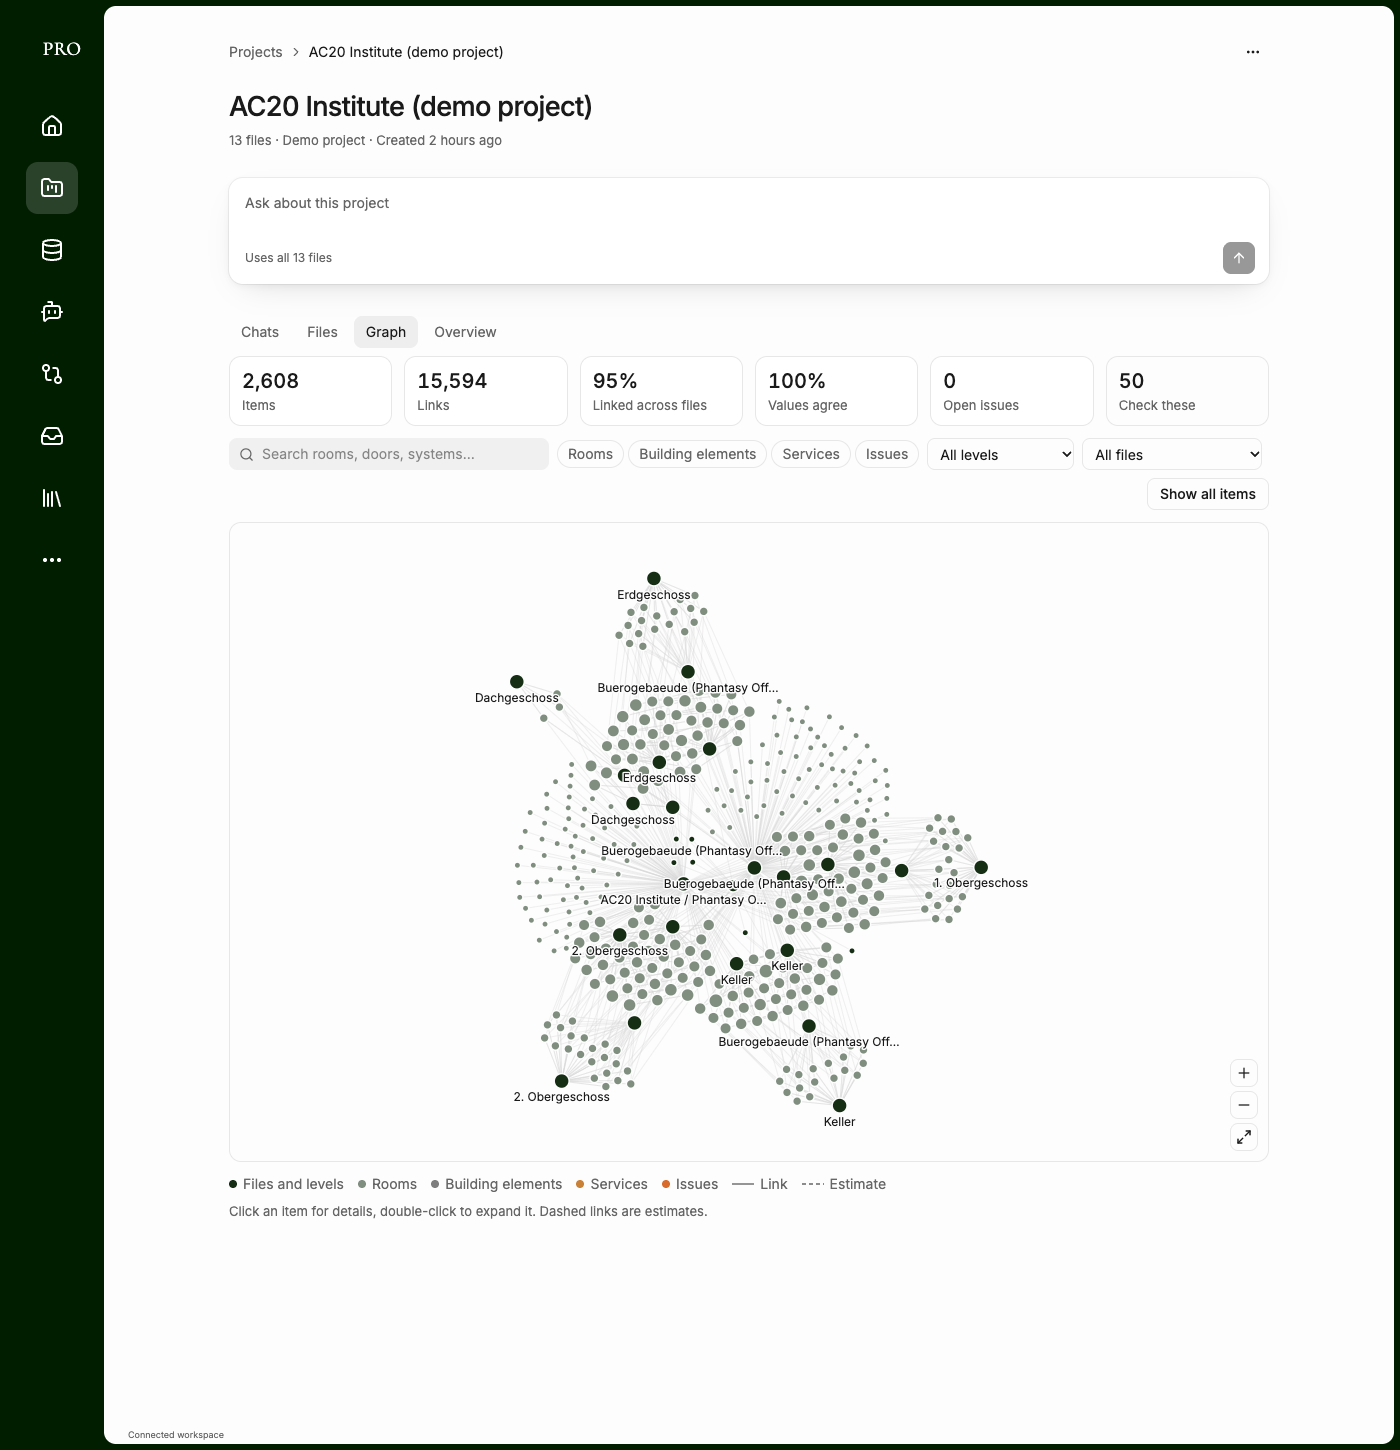
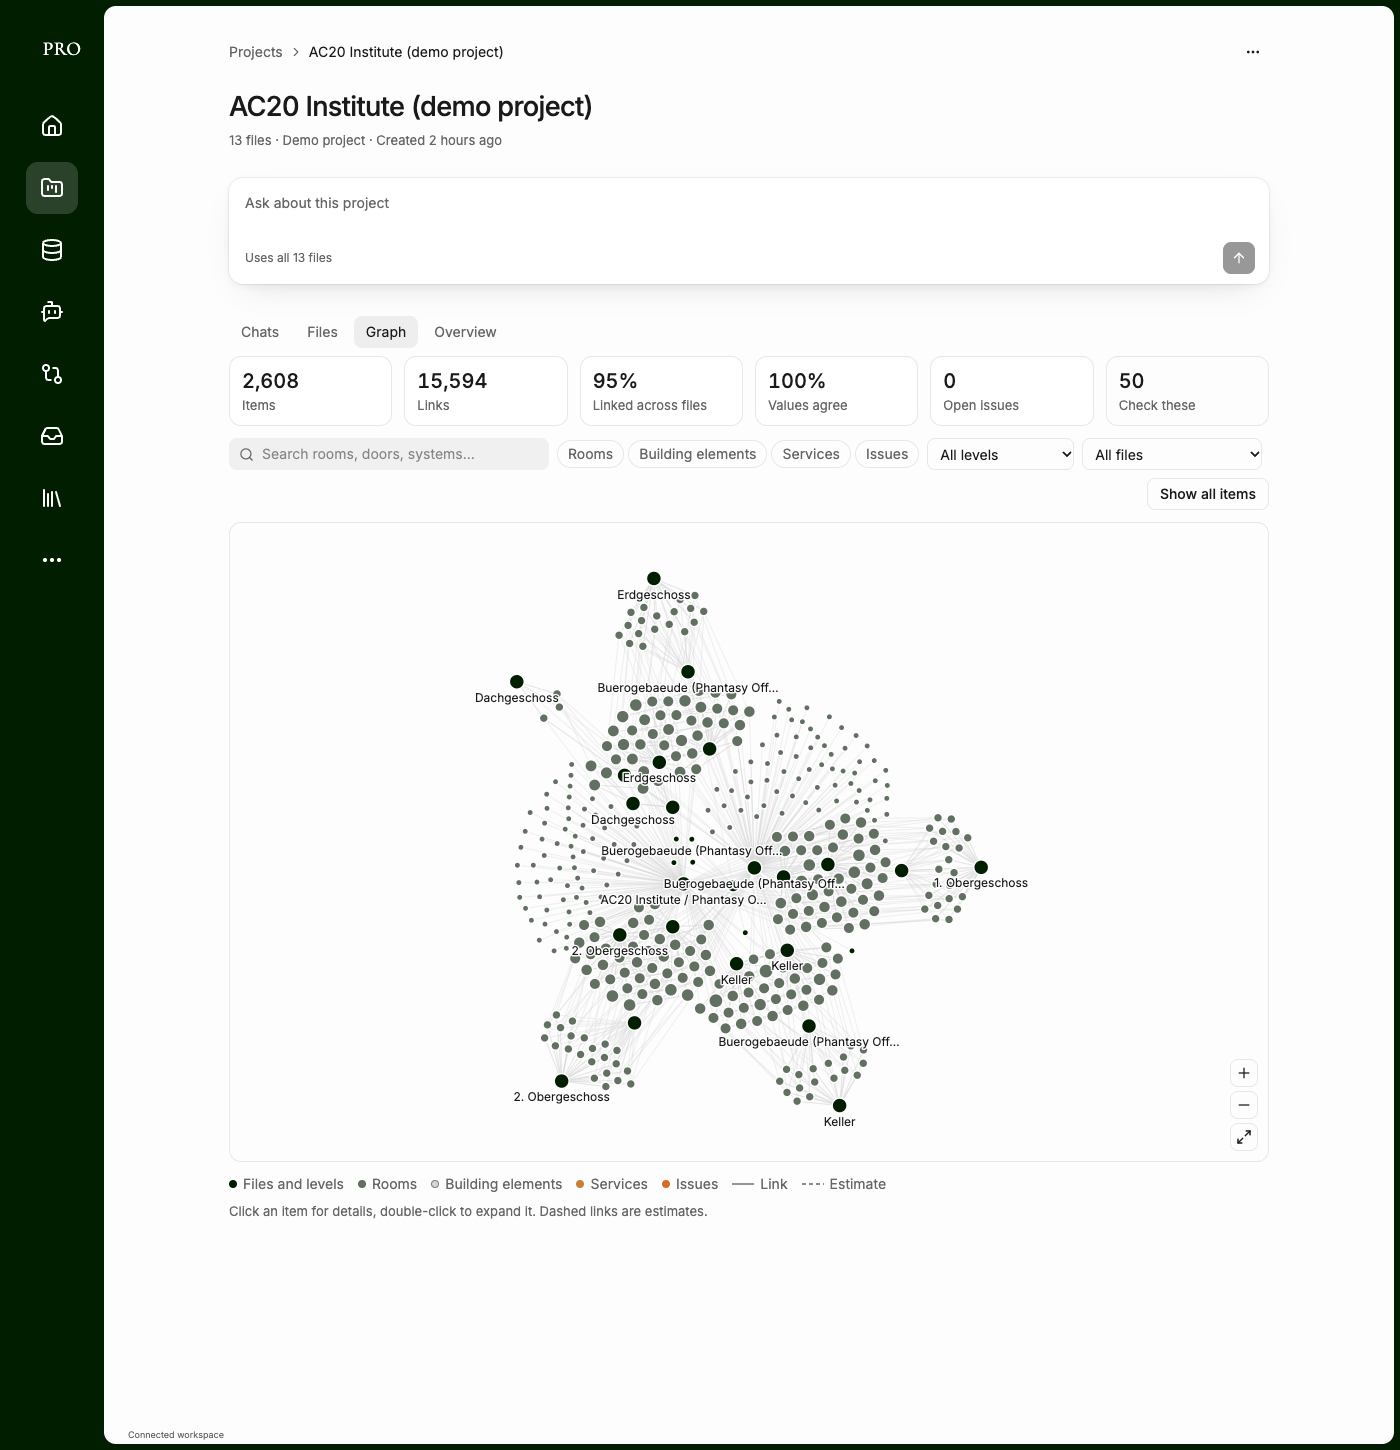
F-KG-UI: stronger forest tone for rooms, light neutral for building elements
Claude-Session: https://claude.ai/code/session_01GYqh9VWiXR7AfuxwTwDLZf

diff --git a/web/src/components/project-graph.css b/web/src/components/project-graph.css
@@ -29,9 +29,9 @@
 .kg-legend { display: flex; flex-wrap: wrap; gap: 4px 14px; margin: 0; padding: 0; list-style: none; color: var(--muted-foreground); }
 .kg-legend li { display: inline-flex; align-items: center; gap: 6px; }
 .kg-dot { width: 8px; height: 8px; border-radius: 50%; flex: none; display: inline-block; background: var(--neutral-500); }
-.kg-dot[data-group="structure"] { background: var(--forest-900); }
-.kg-dot[data-group="space"] { background: var(--forest-500); }
-.kg-dot[data-group="element"] { background: var(--neutral-500); }
+.kg-dot[data-group="structure"] { background: var(--forest-950); }
+.kg-dot[data-group="space"] { background: var(--forest-600); }
+.kg-dot[data-group="element"] { background: var(--neutral-350); box-shadow: inset 0 0 0 1px var(--neutral-500); }
 .kg-dot[data-group="service"] { background: var(--amber-600); }
 .kg-dot[data-group="issue"] { background: var(--change-edited); }
 .kg-panel { border: 1px solid var(--border); border-radius: var(--radius-card, 12px); padding: 16px; max-height: clamp(420px, 62vh, 640px); overflow: auto; min-width: 0; display: grid; gap: 14px; align-content: start; }

diff --git a/web/src/components/kg-canvas.tsx b/web/src/components/kg-canvas.tsx
@@ -38,7 +38,7 @@ export function GraphCanvas({ nodes, edges, selectedId, markedIds, label, onSele
     const style = getComputedStyle(host.current)
     const read = (name: string, fallback: string) => style.getPropertyValue(name).trim() || fallback
     colors.current = {
-      structure: read(groupToken.structure, '#152e14'), space: read(groupToken.space, '#808e80'), element: read(groupToken.element, '#8a8a8a'), service: read(groupToken.service, '#c98137'), issue: read(groupToken.issue, '#b14142'),
+      structure: read(groupToken.structure, '#011e01'), space: read(groupToken.space, '#617061'), element: read(groupToken.element, '#d6d6d6'), service: read(groupToken.service, '#c98137'), issue: read(groupToken.issue, '#b14142'),
       edge: read('--neutral-350', '#c4c4c4'), edgeStrong: read('--neutral-500', '#8a8a8a'), differs: read('--change-removed', '#ca482a'), text: read('--foreground', '#1a1a1a'), halo: read('--background', '#fdfdfd'), ring: read('--foreground', '#1a1a1a'),
       mark: read('--amber-500', '#e5a648'), font: style.fontFamily || 'sans-serif',
     }

diff --git a/web/src/lib/kg.ts b/web/src/lib/kg.ts
@@ -37,7 +37,7 @@ const GROUP: Record<string, KindGroup> = {
 export const kindGroup = (kind: string): KindGroup => GROUP[kind] ?? 'element'
 export const groupLabel: Record<KindGroup, string> = { structure: 'Files and levels', space: 'Rooms', element: 'Building elements', service: 'Services', issue: 'Issues' }
 /** Existing design tokens for each group (read from CSS at draw time). */
-export const groupToken: Record<KindGroup, string> = { structure: '--forest-900', space: '--forest-500', element: '--neutral-500', service: '--amber-600', issue: '--change-edited' }
+export const groupToken: Record<KindGroup, string> = { structure: '--forest-950', space: '--forest-600', element: '--neutral-350', service: '--amber-600', issue: '--change-edited' }
 
 const EDGE_OUT: Record<string, string> = {
   contains: 'contains', on_level: 'is on', in_room: 'is in', hosted_by: 'is hosted by', bounds: 'bounds', serves: 'serves', connects: 'connects to', part_of_system: 'is part of',
